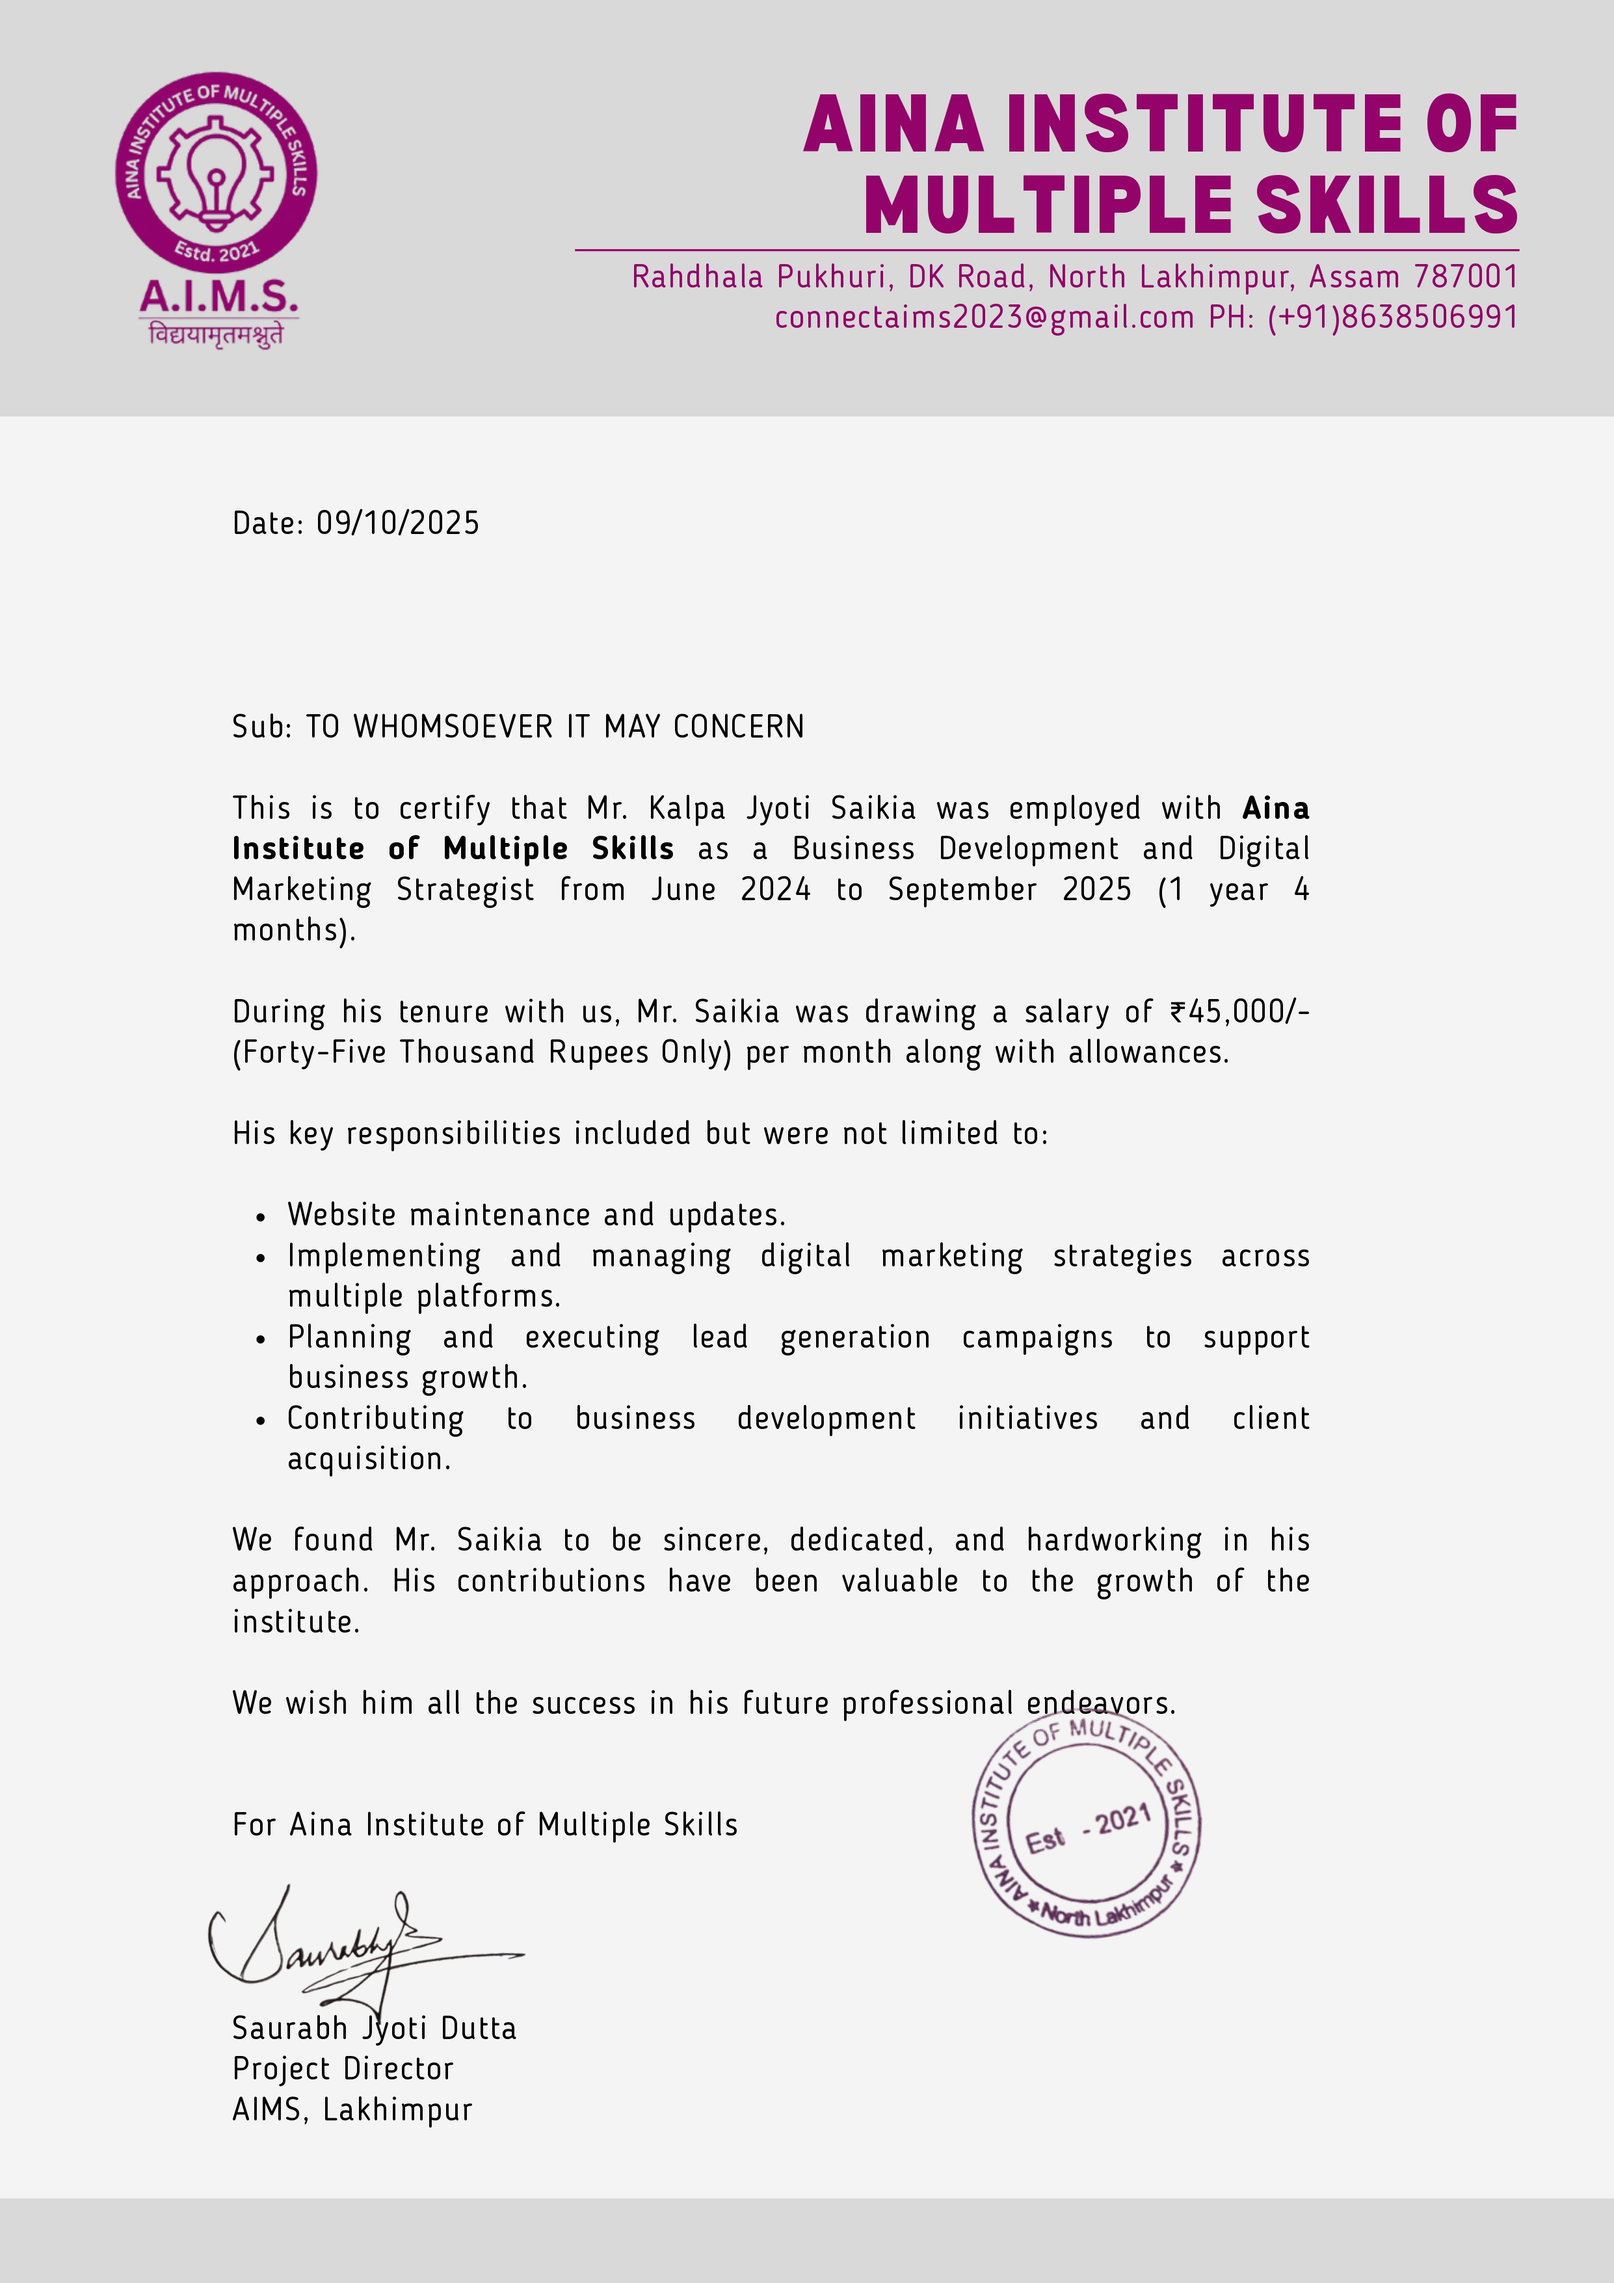
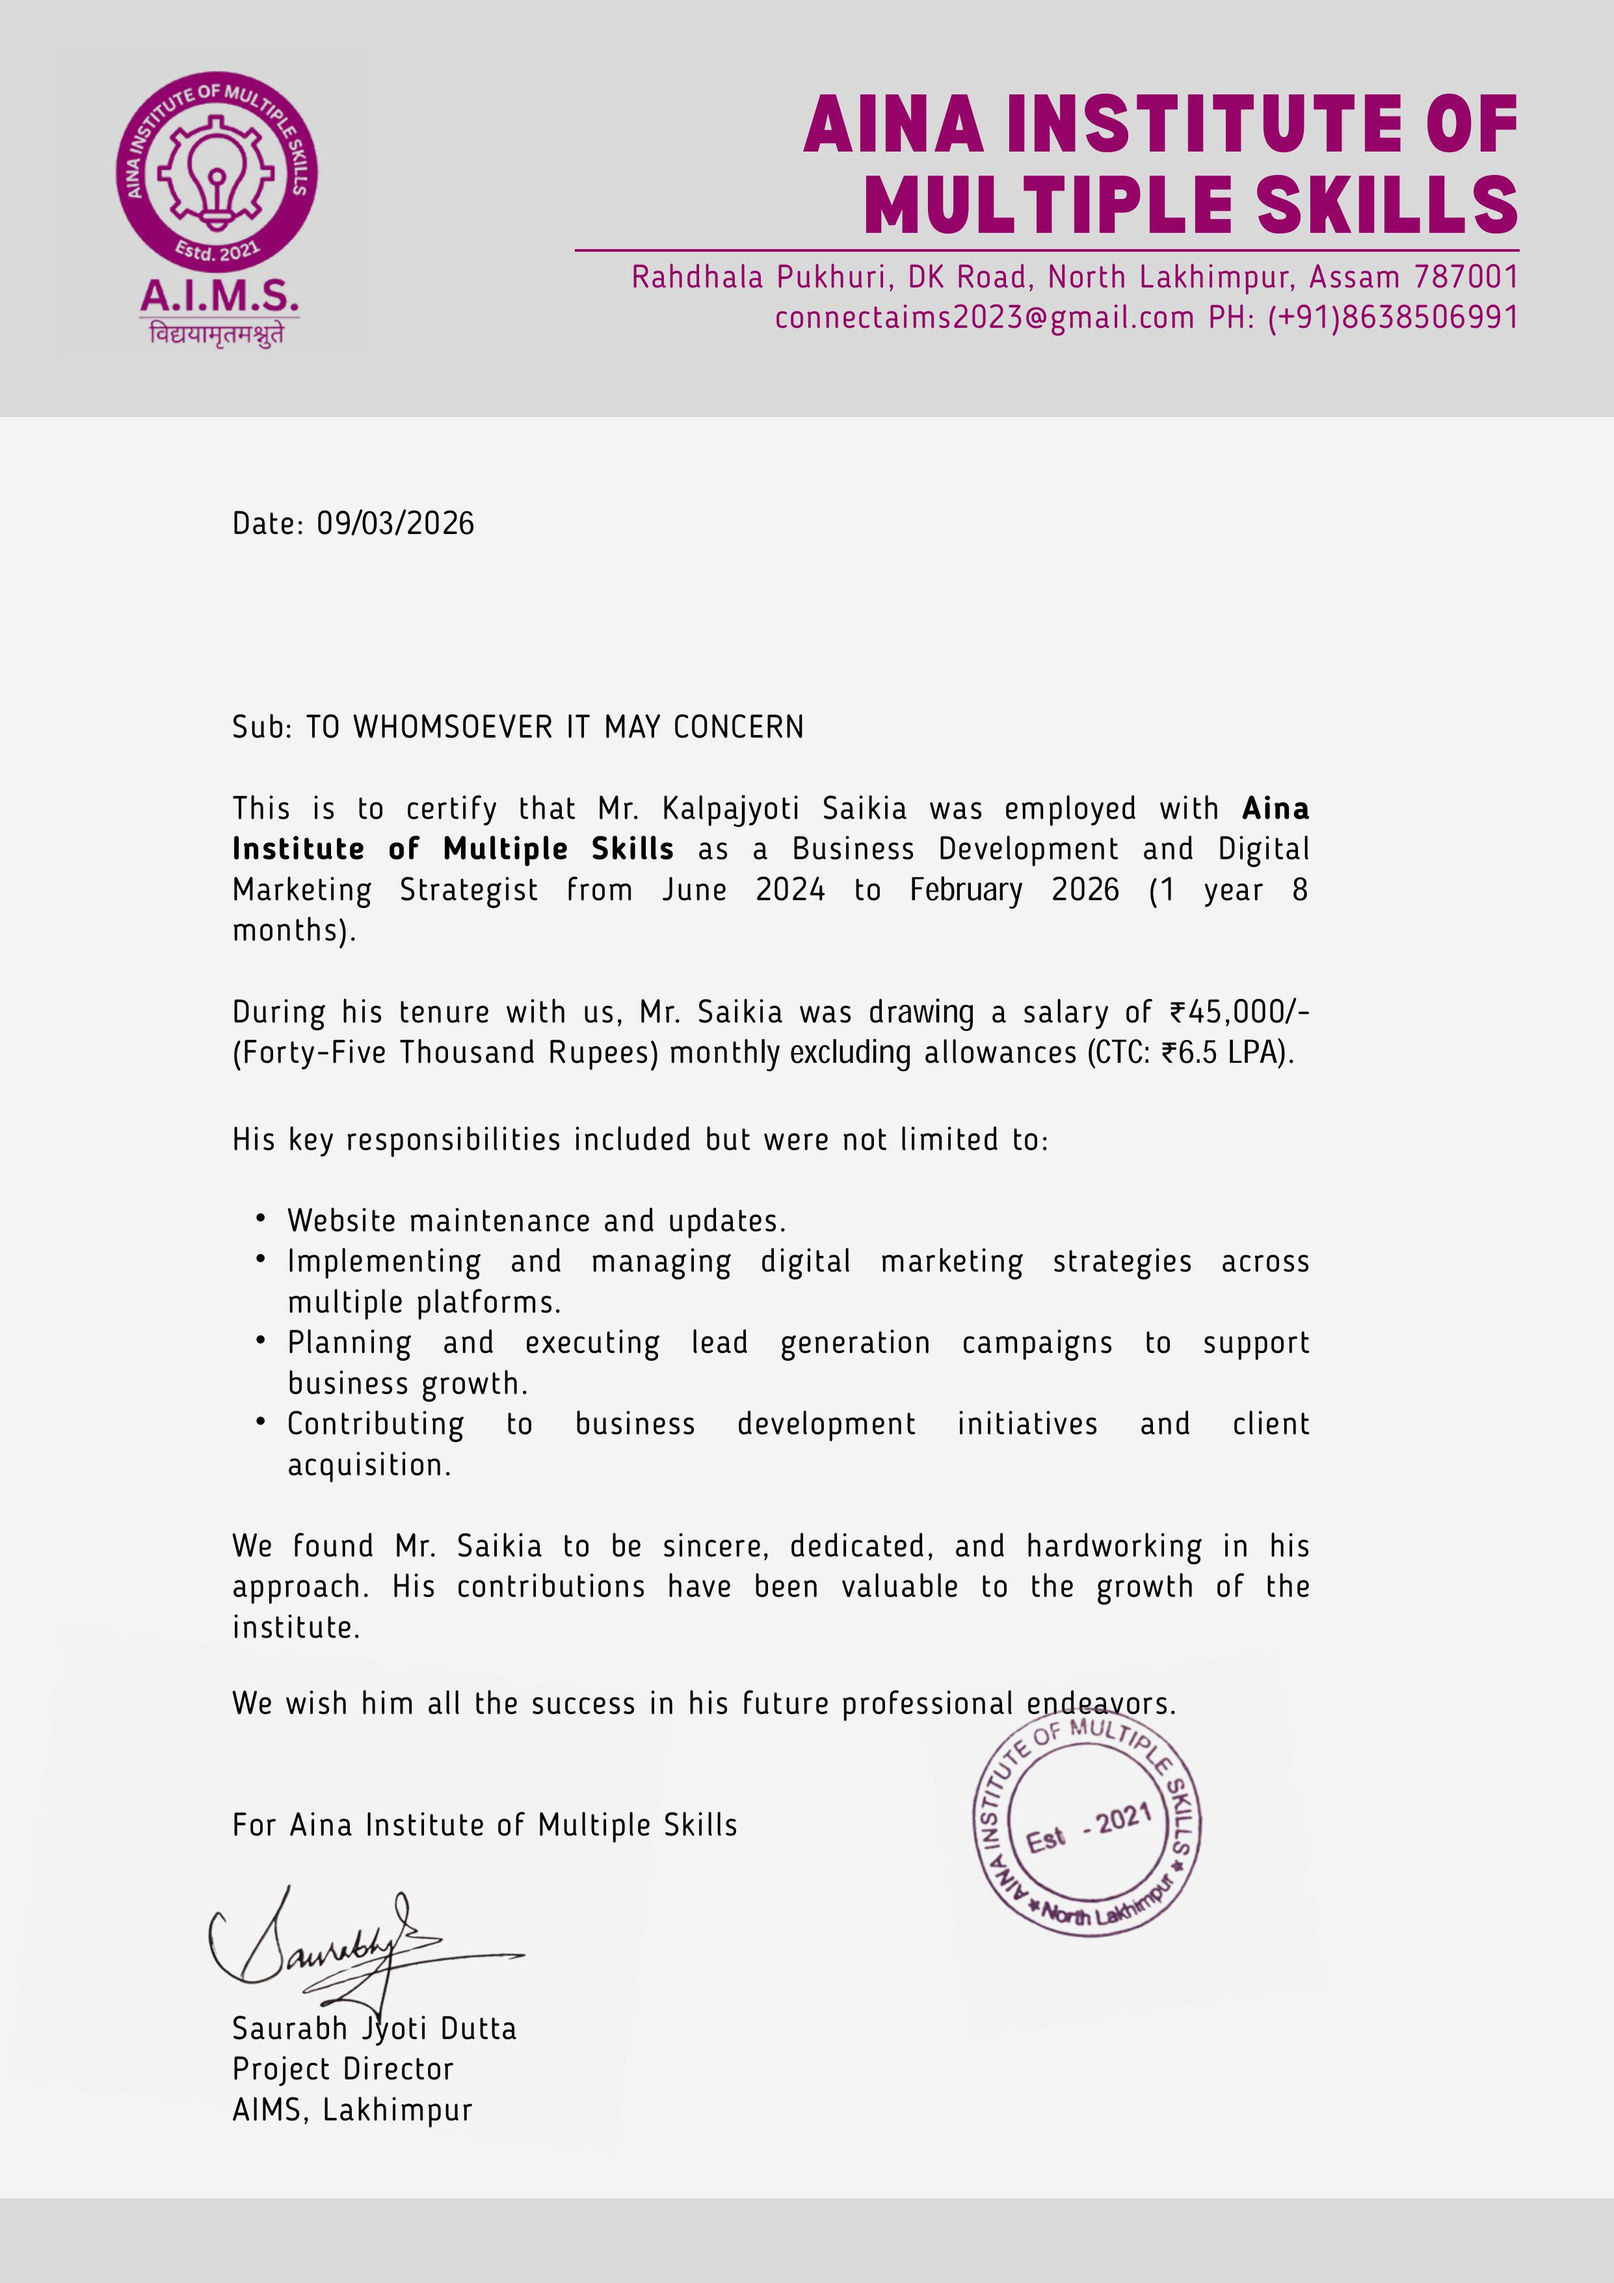
experience

diff --git a/.history/index_20260816130854.html b/.history/index_20260816130854.html
@@ -542,7 +542,7 @@ Working on:
 
       <div class="timeline-item">
 
-  <span>2024 – 2026</span>
+  <span>2024 – 202</span>
 
   <h3>Aina Institute of Multiple Skills</h3>
 
